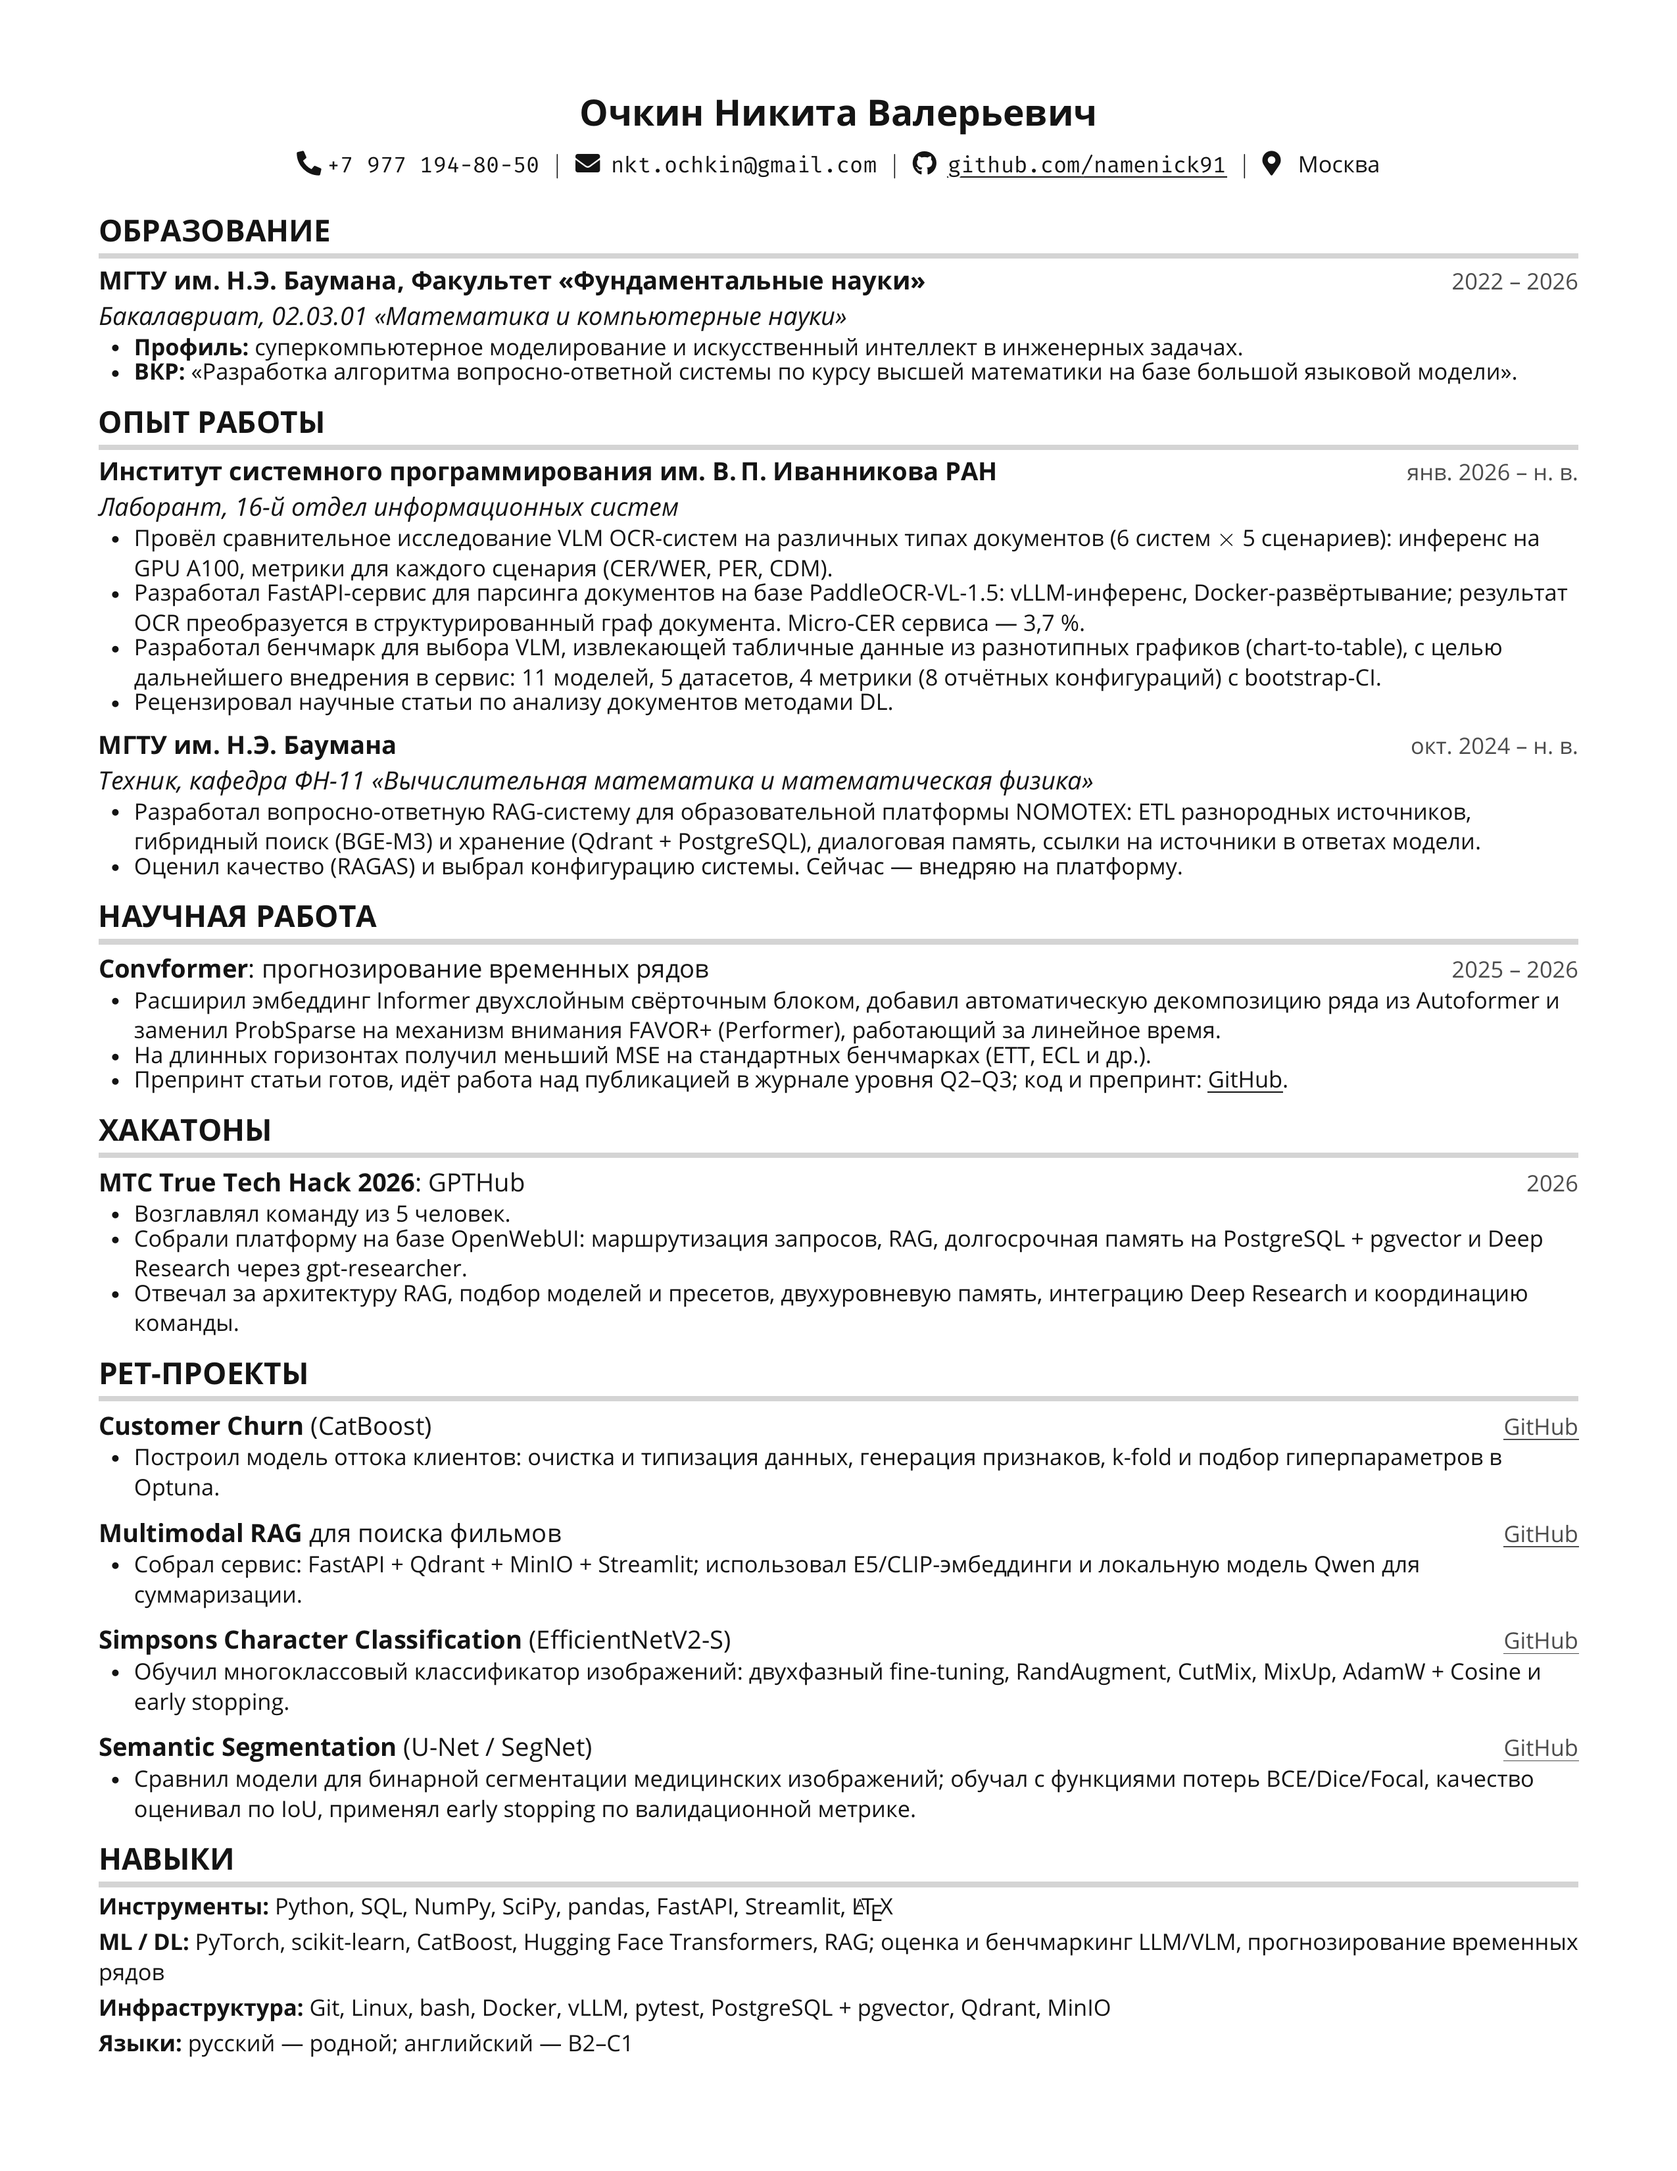
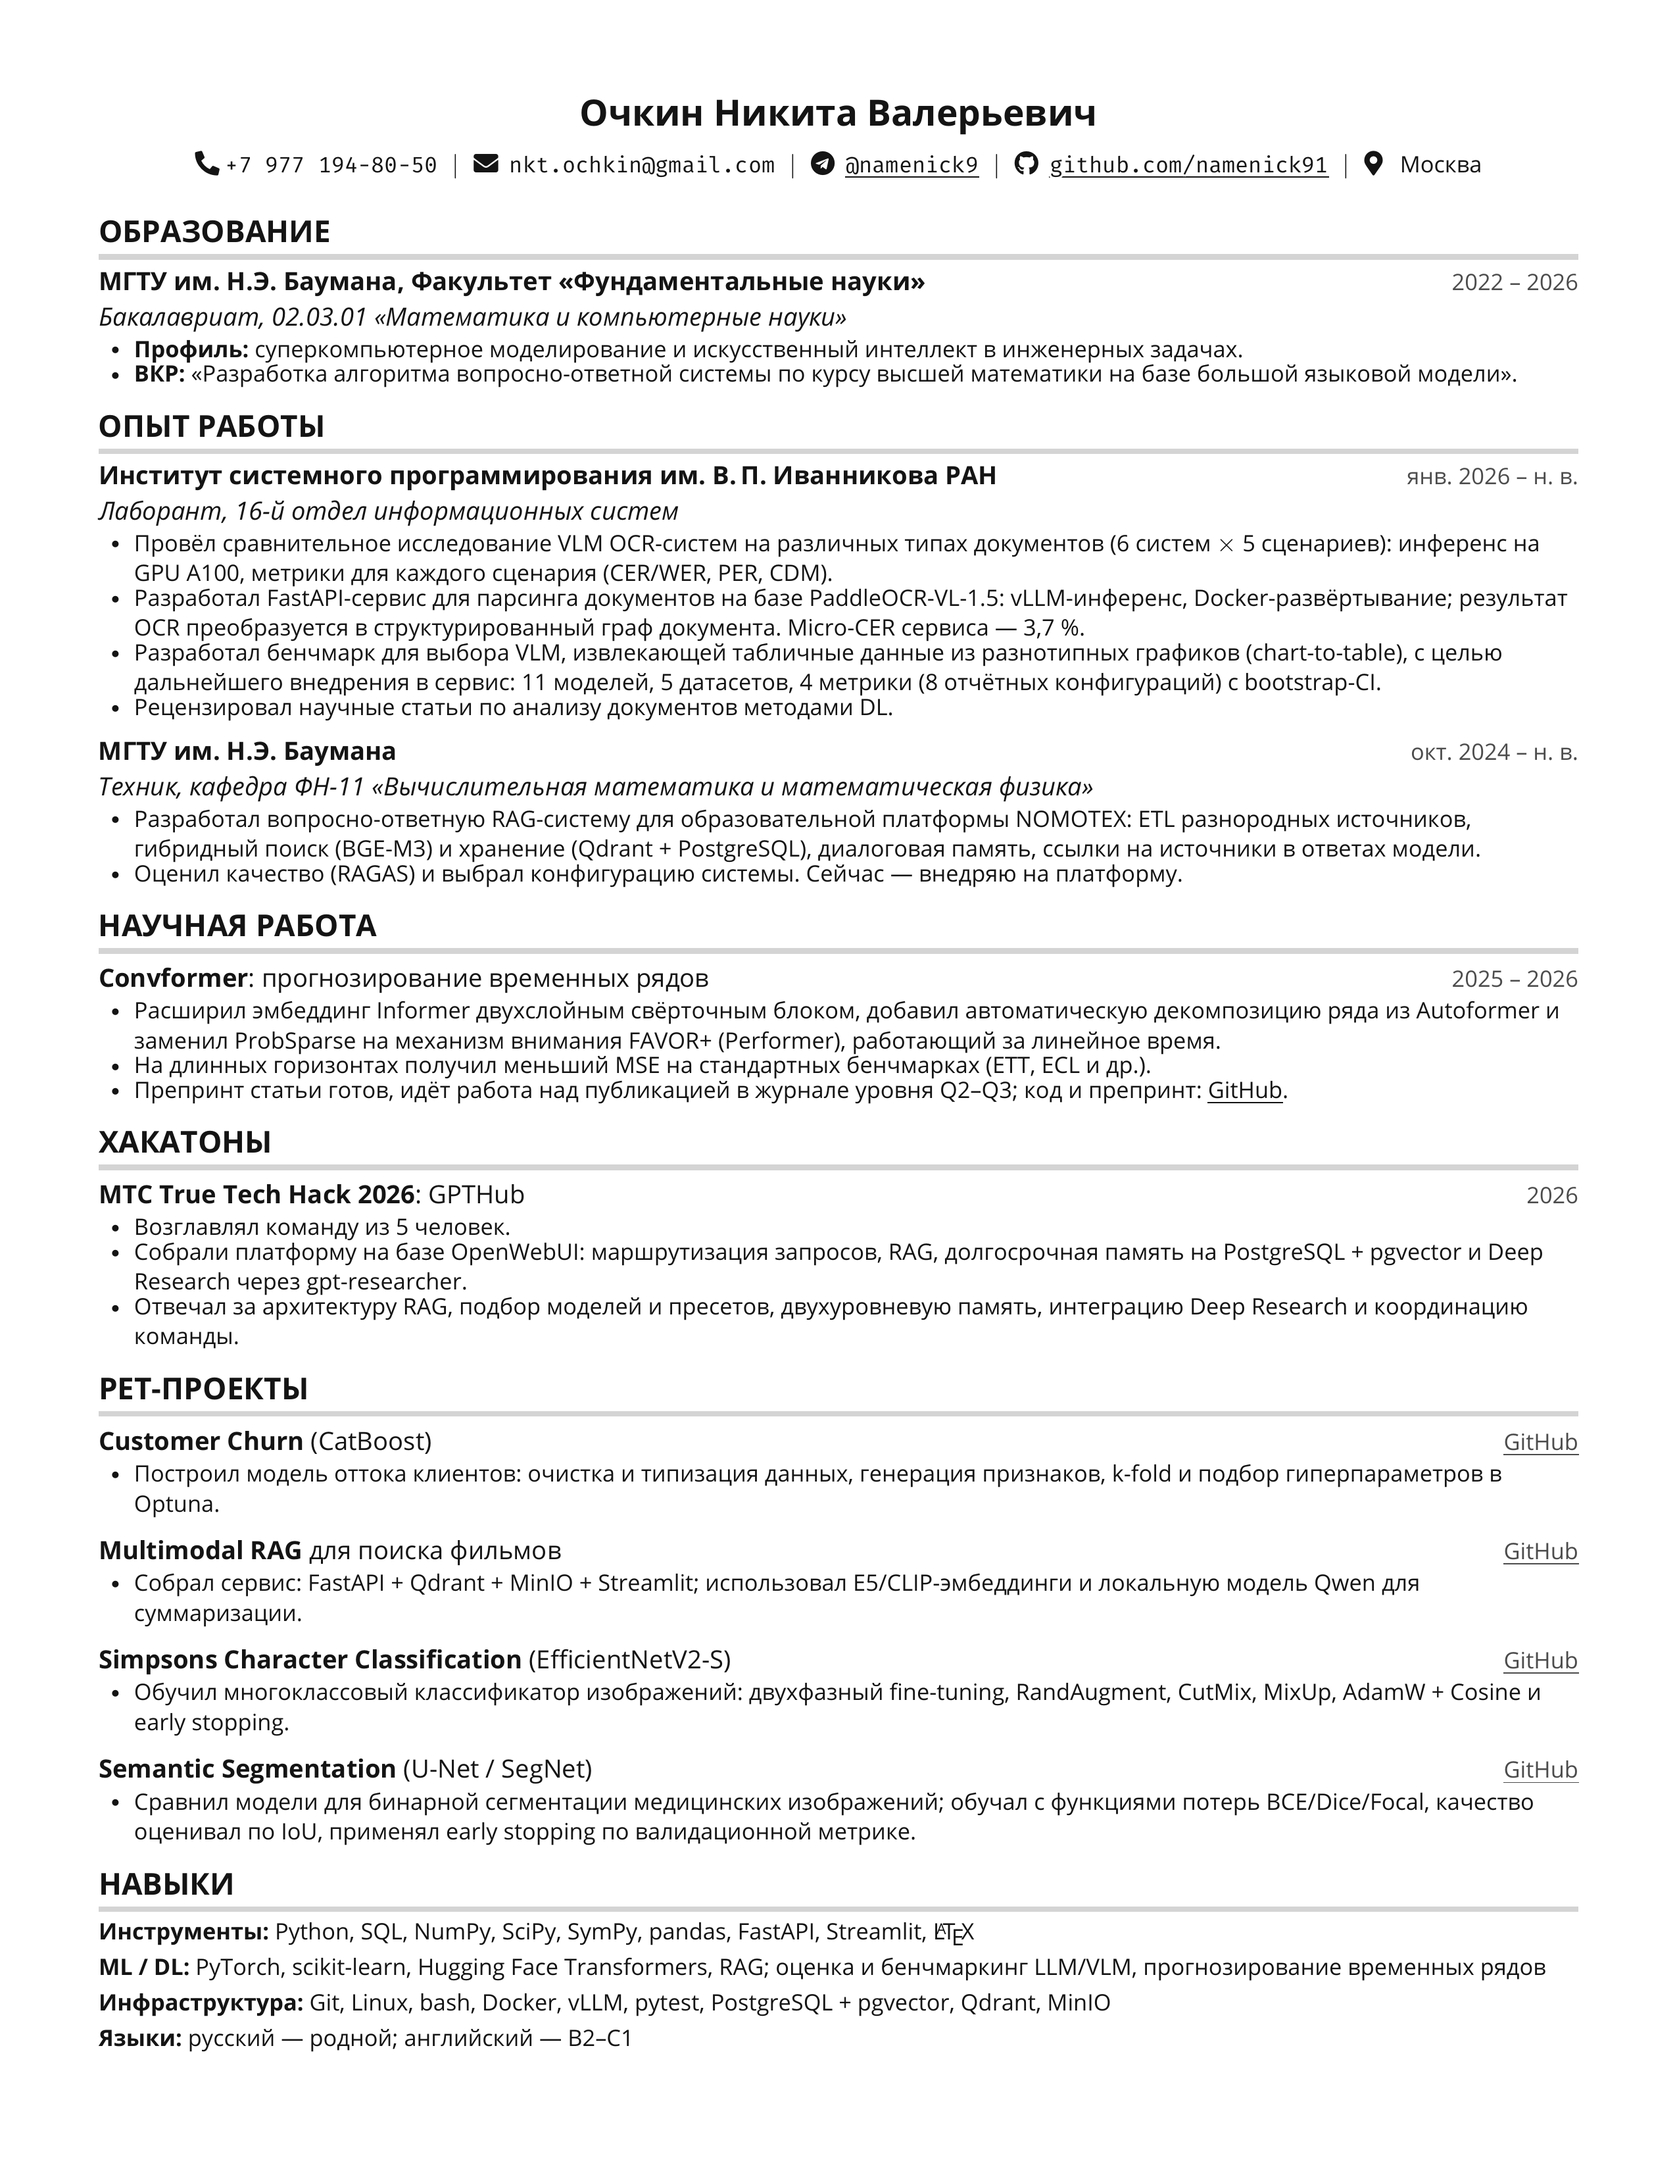
slight update

diff --git a/summer 2026/harshibars-resume/main.tex b/summer 2026/harshibars-resume/main.tex
@@ -141,6 +141,8 @@
     \textbf{\Large Очкин Никита Валерьевич} \\ \vspace{5pt}
     \small \faPhone* \latinmono{+7 977 194-80-50} \hspace{1pt} $|$
     \hspace{1pt} \faEnvelope \hspace{2pt} \latinmono{nkt.ochkin@gmail.com} \hspace{1pt} $|$
+    \hspace{1pt} \faTelegram \hspace{2pt} 
+    \href{https://t.me/namenick9}{\myuline{\latinmono{@namenick9}}} \hspace{1pt} $|$
     \hspace{1pt} \faGithub \hspace{2pt}
     \href{https://github.com/namenick91}{\myuline{\latinmono{github.com/namenick91}}} \hspace{1pt} $|$
     \hspace{1pt} \faMapMarker* \hspace{2pt} Москва
@@ -251,8 +253,8 @@
 \section{НАВЫКИ}
  \begin{itemize}[leftmargin=0in, label={}]
     \small{\item{
-     \textbf{Инструменты:}{ Python, SQL, NumPy, SciPy, pandas, FastAPI, Streamlit, \LaTeX}\vspace{2pt} \\
-     \textbf{ML / DL:}{ PyTorch, scikit-learn, CatBoost, Hugging Face Transformers, RAG; оценка и бенчмаркинг LLM/VLM, прогнозирование временных рядов}\vspace{2pt} \\
+     \textbf{Инструменты:}{ Python, SQL, NumPy, SciPy, SymPy, pandas, FastAPI, Streamlit, \LaTeX}\vspace{2pt} \\
+     \textbf{ML / DL:}{ PyTorch, scikit-learn, Hugging Face Transformers, RAG; оценка и бенчмаркинг LLM/VLM, прогнозирование временных рядов}\vspace{2pt} \\
      \textbf{Инфраструктура:}{ Git, Linux, bash, Docker, vLLM, pytest, PostgreSQL + pgvector, Qdrant, MinIO}\vspace{2pt} \\
      \textbf{Языки:}{ русский --- родной; английский --- B2--C1}
     }}
